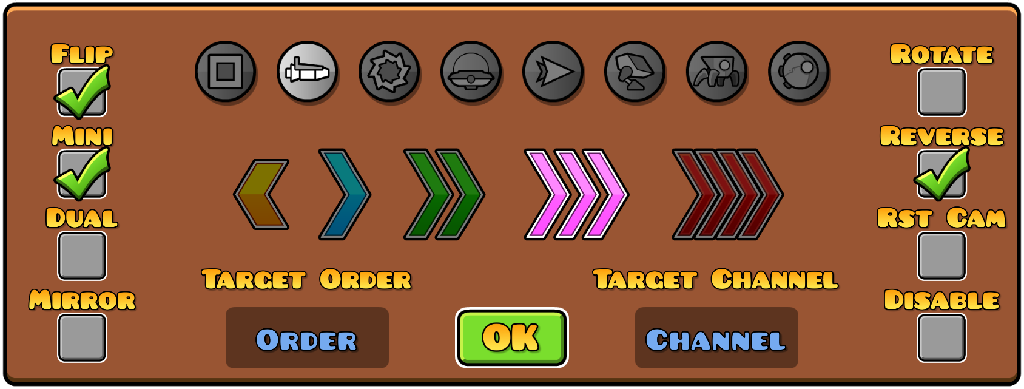
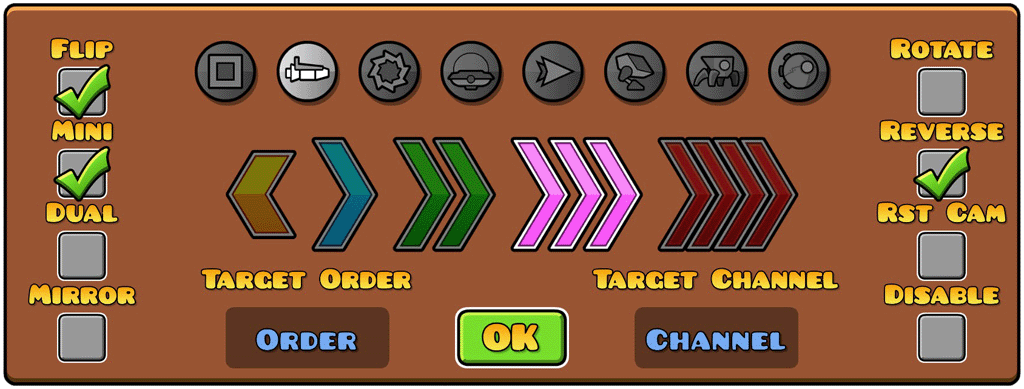
small tweaks

diff --git a/src/main.cpp b/src/main.cpp
@@ -1,4 +1,3 @@
-#include <Geode/Geode.hpp>
 #include <Geode/modify/LevelSettingsLayer.hpp>
 
 using namespace geode::prelude;
@@ -36,7 +35,6 @@ class $modify(CleanStartpos, LevelSettingsLayer) {
             as<CCMenuItemSpriteExtra*>(as<CCMenuItemSpriteExtra*>(sender)->getParent()->getChildByTag(i))->setColor({125, 125, 125});
         }
         as<CCMenuItemSpriteExtra*>(sender)->setColor({255, 255, 255});
-        as<CCMenuItemSpriteExtra*>(sender)->setScale(1);
     }
 
     void setSpeed(CCObject* sender) {
@@ -45,26 +43,15 @@ class $modify(CleanStartpos, LevelSettingsLayer) {
             as<CCMenuItemSpriteExtra*>(as<CCMenuItemSpriteExtra*>(sender)->getParent()->getChildByTag(i))->setColor({125, 125, 125});
         }
         as<CCMenuItemSpriteExtra*>(sender)->setColor({255, 255, 255});
-        as<CCMenuItemSpriteExtra*>(sender)->setScale(0.8);
     }
 	
+    $override
     bool init(LevelSettingsObject* p0, LevelEditorLayer* p1) {
-        
         if(!LevelSettingsLayer::init(p0, p1)) return false;
 
         auto layer = as<CCLayer*>(this->getChildren()->objectAtIndex(0));
-        
-        bool isStartpos = false;
-        CCObject* child = nullptr;
-        CCARRAY_FOREACH(layer->getChildren(), child) {
-            if(typeinfo_cast<CCLabelBMFont*>(child)) {
-                if(as<std::string>(as<CCLabelBMFont*>(child)->getString()) == "Reset\nCamera") {
-                    isStartpos = true;
-                }
-            }
-        }
 
-        if(!isStartpos) return true;
+        if(layer->getChildrenCount() > 13) return true;
 
         auto menu = as<CCMenu*>(layer->getChildren()->objectAtIndex(1));
         menu->setUserObject(p0);
@@ -86,12 +73,12 @@ class $modify(CleanStartpos, LevelSettingsLayer) {
         as<CCNode*>(layer->getChildren()->objectAtIndex(9))->setPositionY(100);
         // Disable
         as<CCNode*>(menu->getChildren()->objectAtIndex(1))->setPosition(ccp(210, -60));
-        as<CCNode*>(layer->getChildren()->objectAtIndex(2))->setPosition(ccp(495, 120));
+        as<CCNode*>(layer->getChildren()->objectAtIndex(2))->setPosition(ccp(495, 122.5));
         // Reset Camera
         as<CCNode*>(menu->getChildren()->objectAtIndex(2))->setPosition(ccp(210, -20));
         as<CCNode*>(menu->getChildren()->objectAtIndex(2))->setScale(1.143);
 		auto resetText = CCLabelBMFont::create("Rst Cam", "goldFont.fnt");
-        resetText->setPosition(ccp(495, 160));
+        resetText->setPosition(ccp(495, 162.5));
         resetText->setScale(0.6);
         layer->addChild(resetText);
 
@@ -116,7 +103,7 @@ class $modify(CleanStartpos, LevelSettingsLayer) {
         menu->addChild(reverse);
         
         auto reverseText = CCLabelBMFont::create("Reverse", "goldFont.fnt");
-        reverseText->setPosition(ccp(495, 200));
+        reverseText->setPosition(ccp(495, 202.5));
         reverseText->setScale(0.6);
         layer->addChild(reverseText);
         
@@ -128,7 +115,7 @@ class $modify(CleanStartpos, LevelSettingsLayer) {
         menu->addChild(rotate);
         
         auto rotateText = CCLabelBMFont::create("Rotate", "goldFont.fnt");
-        rotateText->setPosition(ccp(495, 240));
+        rotateText->setPosition(ccp(495, 242.5));
         rotateText->setScale(0.6);
         layer->addChild(rotateText);
         
@@ -140,7 +127,7 @@ class $modify(CleanStartpos, LevelSettingsLayer) {
         menu->addChild(mirror);
         
         auto mirrorText = CCLabelBMFont::create("Mirror", "goldFont.fnt");
-        mirrorText->setPosition(ccp(75, 120));
+        mirrorText->setPosition(ccp(75, 122.5));
         mirrorText->setScale(0.6);
         layer->addChild(mirrorText);
         
@@ -152,7 +139,7 @@ class $modify(CleanStartpos, LevelSettingsLayer) {
         menu->addChild(dual);
         
         auto dualText = CCLabelBMFont::create("Dual", "goldFont.fnt");
-        dualText->setPosition(ccp(75, 160));
+        dualText->setPosition(ccp(75, 162.5));
         dualText->setScale(0.6);
         layer->addChild(dualText);
         
@@ -164,7 +151,7 @@ class $modify(CleanStartpos, LevelSettingsLayer) {
         menu->addChild(mini);
         
         auto miniText = CCLabelBMFont::create("Mini", "goldFont.fnt");
-        miniText->setPosition(ccp(75, 200));
+        miniText->setPosition(ccp(75, 202.5));
         miniText->setScale(0.6);
         layer->addChild(miniText);
         
@@ -176,7 +163,7 @@ class $modify(CleanStartpos, LevelSettingsLayer) {
         menu->addChild(flip);
         
         auto flipText = CCLabelBMFont::create("Flip", "goldFont.fnt");
-        flipText->setPosition(ccp(75, 240));
+        flipText->setPosition(ccp(75, 242.5));
         flipText->setScale(0.6);
         layer->addChild(flipText);
         
@@ -233,35 +220,30 @@ class $modify(CleanStartpos, LevelSettingsLayer) {
         auto slowSpeed = CCMenuItemSpriteExtra::create(CCSprite::createWithSpriteFrameName("boost_01_001.png"), this, menu_selector(CleanStartpos::setSpeed));
         slowSpeed->setPosition(ccp(-122.5, 10));
         if(p0->m_startSpeed != Speed::Slow) slowSpeed->setColor({125, 125, 125});
-        slowSpeed->setScale(0.8);
         slowSpeed->setTag(301);
         menu->addChild(slowSpeed);
         
         auto normalSpeed = CCMenuItemSpriteExtra::create(CCSprite::createWithSpriteFrameName("boost_02_001.png"), this, menu_selector(CleanStartpos::setSpeed));
         normalSpeed->setPosition(ccp(-81.625, 10));
         if(p0->m_startSpeed != Speed::Normal) normalSpeed->setColor({125, 125, 125});
-        normalSpeed->setScale(0.8);
         normalSpeed->setTag(300);
         menu->addChild(normalSpeed);
         
         auto doubleSpeed = CCMenuItemSpriteExtra::create(CCSprite::createWithSpriteFrameName("boost_03_001.png"), this, menu_selector(CleanStartpos::setSpeed));
         doubleSpeed->setPosition(ccp(-33, 10));
         if(p0->m_startSpeed != Speed::Fast) doubleSpeed->setColor({125, 125, 125});
-        doubleSpeed->setScale(0.8);
         doubleSpeed->setTag(302);
         menu->addChild(doubleSpeed);
         
         auto tripleSpeed = CCMenuItemSpriteExtra::create(CCSprite::createWithSpriteFrameName("boost_04_001.png"), this, menu_selector(CleanStartpos::setSpeed));
         tripleSpeed->setPosition(ccp(31.625, 10));
         if(p0->m_startSpeed != Speed::Faster) tripleSpeed->setColor({125, 125, 125});
-        tripleSpeed->setScale(0.8);
         tripleSpeed->setTag(303);
         menu->addChild(tripleSpeed);
         
         auto quadSpeed = CCMenuItemSpriteExtra::create(CCSprite::createWithSpriteFrameName("boost_05_001.png"), this, menu_selector(CleanStartpos::setSpeed));
         quadSpeed->setPosition(ccp(105.5, 10));
         if(p0->m_startSpeed != Speed::Fastest) quadSpeed->setColor({125, 125, 125});
-        quadSpeed->setScale(0.8);
         quadSpeed->setTag(304);
         menu->addChild(quadSpeed);
 
